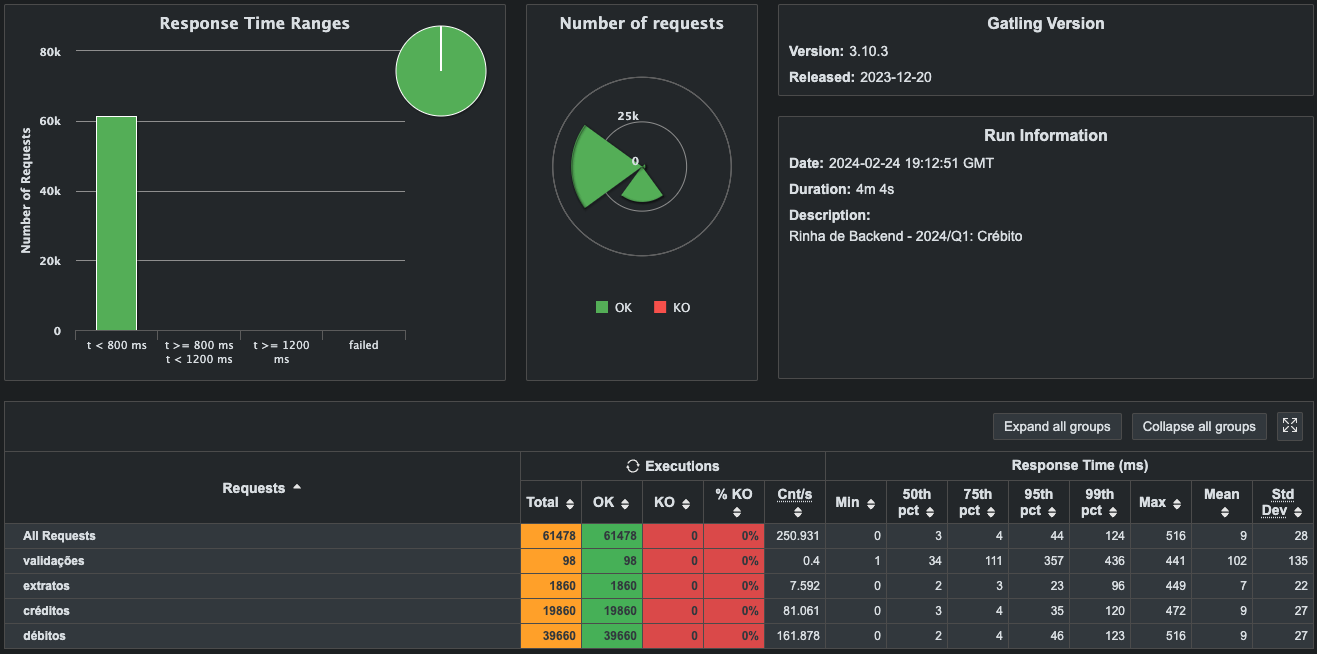
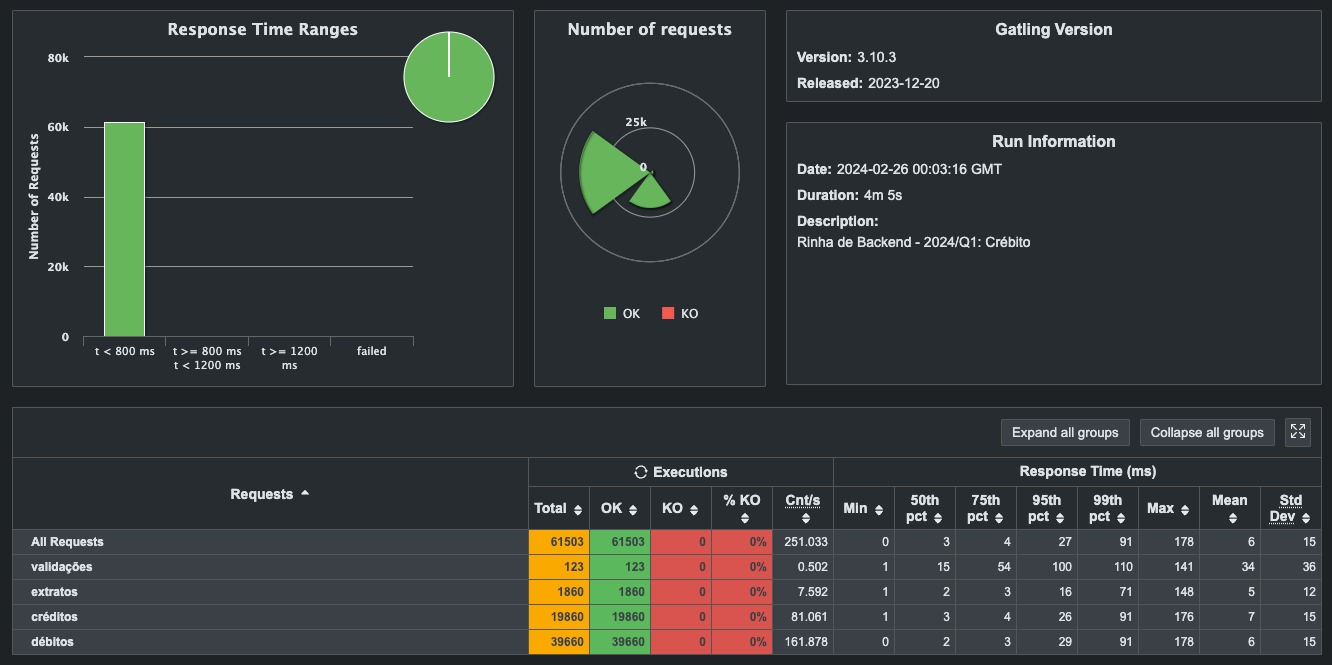
docs: add new results to the docs

diff --git a/README.md b/README.md
@@ -6,7 +6,7 @@ A Rinha de Backend é um desafio que tem como principal objetivo compartilhar co
 
 ## Resultados
 
-Abaixo você encontra os resultados dos testes de carga realizados localmente na aplicação. Foi possível fazer com que todas as requisições fossem respondidas corretamente em menos de 500ms. Fazer o Lock apropriados das linhas do banco de dados foi essencial para garantir a integridade dos dados em cenários de alta concorrência.
+Abaixo você encontra os resultados dos testes de carga realizados localmente na aplicação. Foi possível fazer com que todas as requisições fossem respondidas corretamente em menos de ~ 200ms. Fazer o Lock apropriados das linhas do banco de dados foi essencial para garantir a integridade dos dados em cenários de alta concorrência.
 
 ![Resultado dos testes de carga](./docs/result.png)
 
